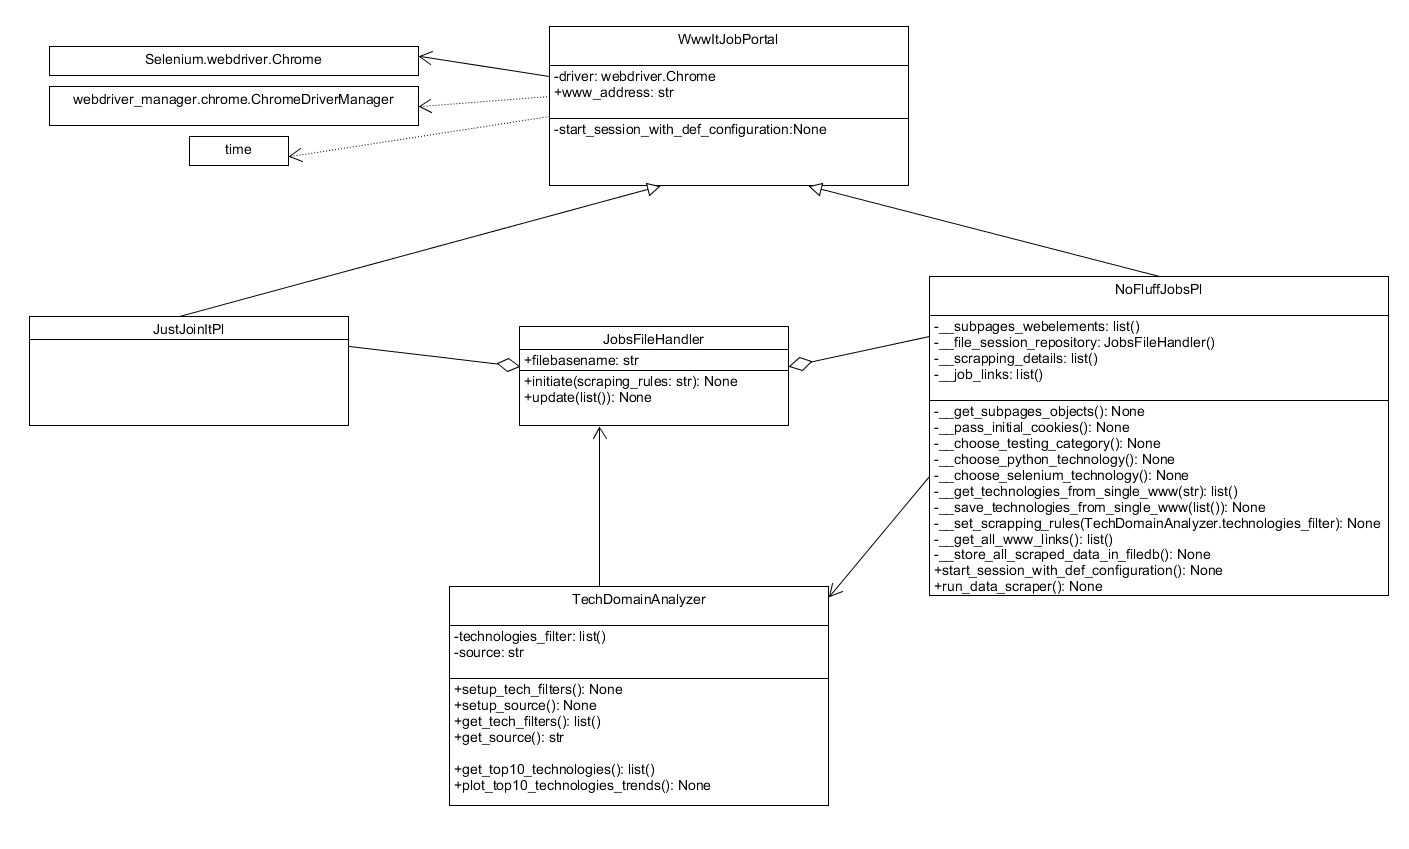
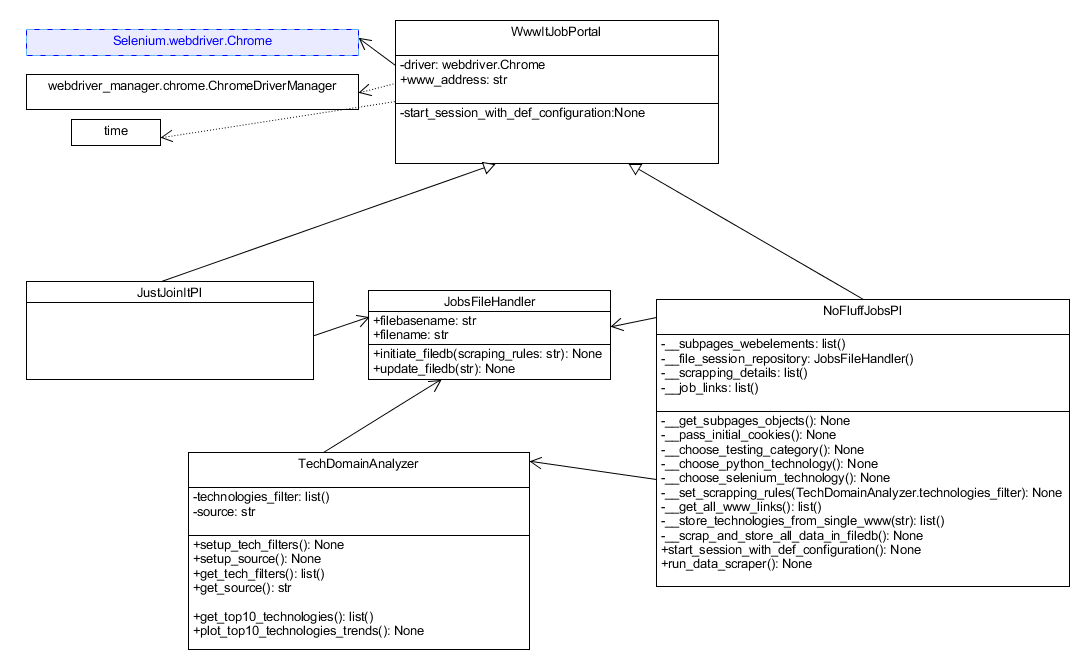
Nofluff data scraper + filedb storage implemented.

diff --git a/JobWwwPortals.py b/JobWwwPortals.py
@@ -20,7 +20,7 @@ class NoFluffJobsPl(WwwItJobPortal):
 
     def __init__(self):
         super().__init__("https://nofluffjobs.com/pl")
-        self.__file_session_repository = JobsFileHandler(NoFluffJobsPl.__name__)
+        self.__file_session_repository = JobsFileHandler(NoFluffJobsPl.__name__ + "_")
         self.__subpages_webelements = []
         self.__job_links = []
         self.__scrapping_details = []
@@ -78,26 +78,30 @@ class NoFluffJobsPl(WwwItJobPortal):
     def __get_all_www_links(self):
         # get subpages first
         self.__get_subpages_objects()
-
-        i = 1
-        for subpage in self.__subpages_webelements:
-            time.sleep(1)
-            subpage.click()
+        for index, subpage in enumerate(self.__subpages_webelements):
+            if index != 0:
+                time.sleep(2)
+                subpage.click()
             time.sleep(1)
             job_objects = self.driver.find_elements_by_xpath("//nfj-search-results/nfj-postings-list/a")
             for job_obj in job_objects:
                 self.__job_links.append(job_obj.get_attribute("href"))
 
-    def __get_technologies_from_single_www(self, link: str) -> list():
-        pass
+    def __store_technologies_from_single_www(self, link: str) -> list():
+        job_adv_technologies = [link]
+        time.sleep(2)
+        self.driver.get(link)
+        time.sleep(2)
+        skills_list = \
+            self.driver.find_elements_by_xpath("//nfj-posting-requirements/common-posting-item-tag/button")
+        skills_list += self.driver.find_elements_by_xpath("//nfj-posting-requirements/common-posting-item-tag/object/a")
+        for competency in skills_list:
+            job_adv_technologies.append(competency.text)
+        self.__file_session_repository.update_filedb(",".join(job_adv_technologies))
 
-    def __save_technologies_from_single_www(self, technologies: list()):
-        pass
-
-    def __store_all_scraped_data_in_filedb(self):
-        self.__file_session_repository.initiate_filedb()
+    def __scrap_and_store_all_data_in_filedb(self):
         for job_advertisement in self.__job_links:
-            pass
+            self.__store_technologies_from_single_www(job_advertisement)
 
     def start_session_with_def_configuration(self, implicit_timeout=5):
         self.driver.get(self.www_address)
@@ -111,8 +115,9 @@ class NoFluffJobsPl(WwwItJobPortal):
         self.__set_scrapping_details(*scrapping_args)
         time.sleep(2)
         self.__get_all_www_links()
-        for link in self.__job_links:
-            print(link)
+
+        self.__file_session_repository.initiate_filedb(*self.__scrapping_details)
+        self.__scrap_and_store_all_data_in_filedb()
 
 
 if __name__ == "__main__":

diff --git a/scraper_tools.py b/scraper_tools.py
@@ -1,13 +1,23 @@
+from datetime import date
 
 
 class JobsFileHandler:
 
     def __init__(self, source: str):
         self.filebasename = source
+        self.filename = ""
 
-    def initiate_filedb(self):
-        pass
+    def initiate_filedb(self, *scraping_rules):
+        self.filename = self.filebasename
+        for rule in scraping_rules:
+            self.filename += "_" + rule
+        today = date.today()
+        self.filename += "__" + str(today.strftime("%d%m%Y")) + ".txt"
+
+        with open(self.filename, "w") as opened_dbfile:
+            opened_dbfile.write("")
 
     def update_filedb(self, line: str):
-        pass
-
+        with open(self.filename, "a") as opened_dbfile:
+            opened_dbfile.writelines(line)
+            opened_dbfile.writelines("\n")

diff --git a/runner.py b/runner.py
@@ -7,3 +7,4 @@ if __name__ == "__main__":
     jobscraper_nofluff1.start_session_with_def_configuration()
     time.sleep(1)
     jobscraper_nofluff1.run_data_scraper()
+
